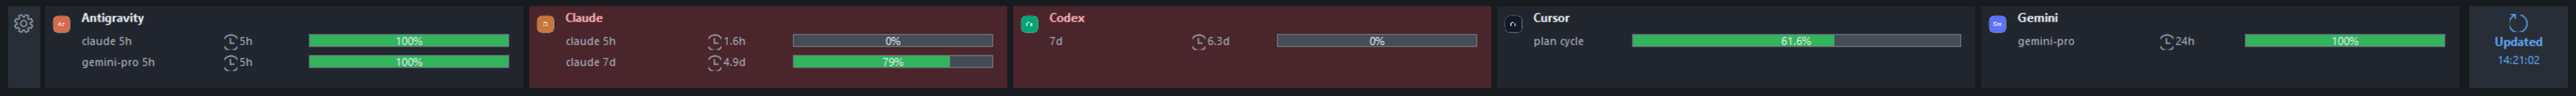
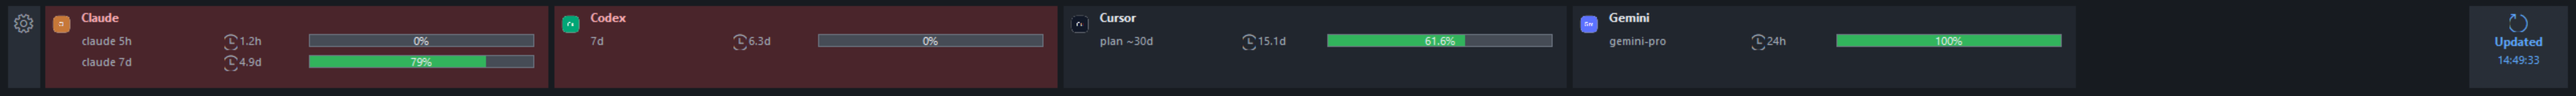
Refresh manual screenshots and drop provider Source column from docs.
Re-capture guide images from v20260517 with user settings; README and USER_MANUAL now list providers in a single Notes column since all readers are built-in.

diff --git a/README.md b/README.md
@@ -17,19 +17,19 @@ LimitDock intentionally does not show spend, token totals, request counts, tool-
 
 Bundled provider icons are neutral LimitDock badges, not official brand logos. If you replace files under `assets/icons` with official brand assets, make sure the usage is allowed by that provider's brand guidelines and trademark terms.
 
-LimitDock uses native provider readers for each supported tool. All quota data is read directly from local credentials, session files, or provider APIs — no external daemon required.
+LimitDock reads quota directly from each tool's local credentials, session files, or APIs. No external daemon is required.
 
 ## Provider Support
 
-LimitDock renders only quota-like rows. A provider is absent from the dock if no quota, rate-limit, credit, or reset row is available from its native reader.
+LimitDock renders only quota-like rows. A provider is absent from the dock if no quota, rate-limit, credit, or reset row is available.
 
-| Provider or agent | Source | LimitDock behavior |
-| --- | --- | --- |
-| Claude Code | LimitDock native reader | Calls `api.anthropic.com/api/oauth/usage` with the OAuth token from `~/.claude/.credentials.json` or `CLAUDE_CODE_OAUTH_TOKEN`. Returns real utilization percent, not a time-elapsed estimate. |
-| Codex CLI | LimitDock native reader | Merges ChatGPT wham usage with recent `.codex` session/log `rate_limits` events so 5h and 7d windows stay accurate. |
-| Antigravity | LimitDock native reader | Reads local Antigravity language-server status or common `%APPDATA%\Antigravity` cache data. No card is shown if no quota rows are present. |
-| Gemini CLI | LimitDock native reader | Uses `~/.gemini/oauth_creds.json` (or related credential files), refreshes when needed, and calls Google Code Assist `retrieveUserQuota`. Model-specific rows are preferred; aggregate duplicates are suppressed when model rows exist. |
-| Cursor | LimitDock native reader | Reads the token from `%APPDATA%\Cursor\User\globalStorage\state.vscdb`, refreshes when needed, and calls Cursor Connect `GetCurrentPeriodUsage` on `api2.cursor.sh`. Plan-cycle quota from `plan_percent_used`; reset from `billing_cycle_end` when present. |
+| Provider or agent | Notes |
+| --- | --- |
+| Claude Code | OAuth usage from `~/.claude/.credentials.json` or `CLAUDE_CODE_OAUTH_TOKEN`. Real utilization percent, not a time-elapsed estimate. |
+| Codex CLI | Merges ChatGPT wham usage with recent `.codex` session/log `rate_limits` events so 5h and 7d windows stay accurate. |
+| Antigravity | Local language-server status or common `%APPDATA%\Antigravity` cache data. No card when no quota rows are present. |
+| Gemini CLI | `~/.gemini/oauth_creds.json` (or related credential files) and Code Assist `retrieveUserQuota`. Model-specific rows are preferred; aggregate duplicates are suppressed when model rows exist. |
+| Cursor | Token from `%APPDATA%\Cursor\User\globalStorage\state.vscdb` and Connect `GetCurrentPeriodUsage`. Plan-cycle quota from `plan_percent_used`; reset from `billing_cycle_end`. |
 
 ## User Guide
 

diff --git a/docs/USER_MANUAL.md b/docs/USER_MANUAL.md
@@ -46,7 +46,7 @@ Double-click a provider card to choose model/window rows.
 
 ![Visible row picker](images/manual-row-picker.png)
 
-Checked rows are visible. Unchecked rows are hidden. Hidden rows stay in `settings.json` and can be restored later; LimitDock never deletes source telemetry.
+Checked rows are visible. Unchecked rows are hidden. Hidden rows stay in `settings.json` and can be restored later; LimitDock never deletes underlying quota data.
 
 ## Left Or Right Dock
 
@@ -111,13 +111,13 @@ The settings window includes log and diagnostic controls. Use them to browse Lim
 
 LimitDock renders only quota-like rows. A provider is absent from the dock if no quota, rate-limit, credit, or reset row is available.
 
-| Provider or agent | Source | Notes |
-| --- | --- | --- |
-| Claude Code | LimitDock native reader | Calls `api.anthropic.com/api/oauth/usage` with the OAuth token from `~/.claude/.credentials.json` or `CLAUDE_CODE_OAUTH_TOKEN`. Returns real utilization percent, not a time-elapsed estimate. |
-| Codex CLI | LimitDock native reader | Merges ChatGPT wham usage with recent `.codex` session/log `rate_limits` rows. |
-| Gemini CLI | LimitDock native reader | Uses `~/.gemini/oauth_creds.json`, refreshes when needed, and calls Code Assist `retrieveUserQuota`. Model-specific rows are preferred; aggregate duplicates are suppressed when model rows exist. |
-| Cursor | LimitDock native reader | Uses `%APPDATA%\Cursor\User\globalStorage\state.vscdb`, refreshes when needed, and calls Cursor Connect `GetCurrentPeriodUsage`. Plan-cycle quota from `plan_percent_used`; reset text from `billing_cycle_end`. |
-| Antigravity | LimitDock native reader | Reads local Antigravity language-server status or common `%APPDATA%\Antigravity` cache data. No card is shown if no quota rows are present. |
+| Provider or agent | Notes |
+| --- | --- |
+| Claude Code | OAuth usage from `~/.claude/.credentials.json` or `CLAUDE_CODE_OAUTH_TOKEN`. Real utilization percent, not a time-elapsed estimate. |
+| Codex CLI | Merges ChatGPT wham usage with recent `.codex` session/log `rate_limits` rows. |
+| Gemini CLI | `~/.gemini/oauth_creds.json` and Code Assist `retrieveUserQuota`. Model-specific rows are preferred; aggregate duplicates are suppressed when model rows exist. |
+| Cursor | `%APPDATA%\Cursor\User\globalStorage\state.vscdb` and Connect `GetCurrentPeriodUsage`. Plan-cycle quota from `plan_percent_used`; reset text from `billing_cycle_end`. |
+| Antigravity | Local language-server status or common `%APPDATA%\Antigravity` cache data. No card when no quota rows are present. |
 
 Codex:
 
